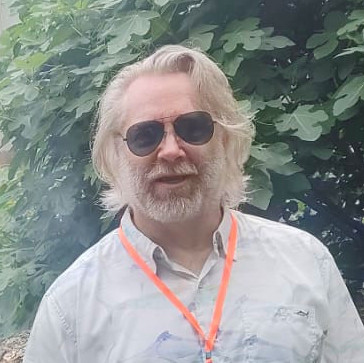
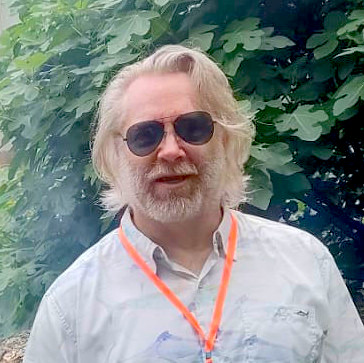
rederencing updates

diff --git a/verify.html b/verify.html
@@ -30,14 +30,13 @@
   </head>
 
   <body id="body">
-    
     <nav class="main-nav" aria-label="Main Navigation">
-        <div class="navbar dark-mode">
-        <a href="#main">Home</a>
+      <div class="navbar dark-mode">
+        <a href="/#main">Home</a>
         <a href="/balticonomy/">Balticonomy</a>
-        <a href="#get-involved">Join Us</a>
-        <a href="#about-us">About Us</a>
-        </div>
+        <a href="/#get-involved">Join Us</a>
+        <a href="/#about-us">About Us</a>
+      </div>
     </nav>
 
     <button id="toggle-dark-mode">☀️</button>

diff --git a/index.html b/index.html
@@ -96,10 +96,10 @@
 
   <nav class="main-nav" aria-label="Main Navigation">
     <div class="navbar dark-mode">
-      <a href="#main">Home</a>
+      <a href="/#main">Home</a>
       <a href="/balticonomy/">Balticonomy</a>
-      <a href="#get-involved">Join Us</a>
-      <a href="#about-us">About Us</a>
+      <a href="/#get-involved">Join Us</a>
+      <a href="/#about-us">About Us</a>
     </div>
   </nav>
 